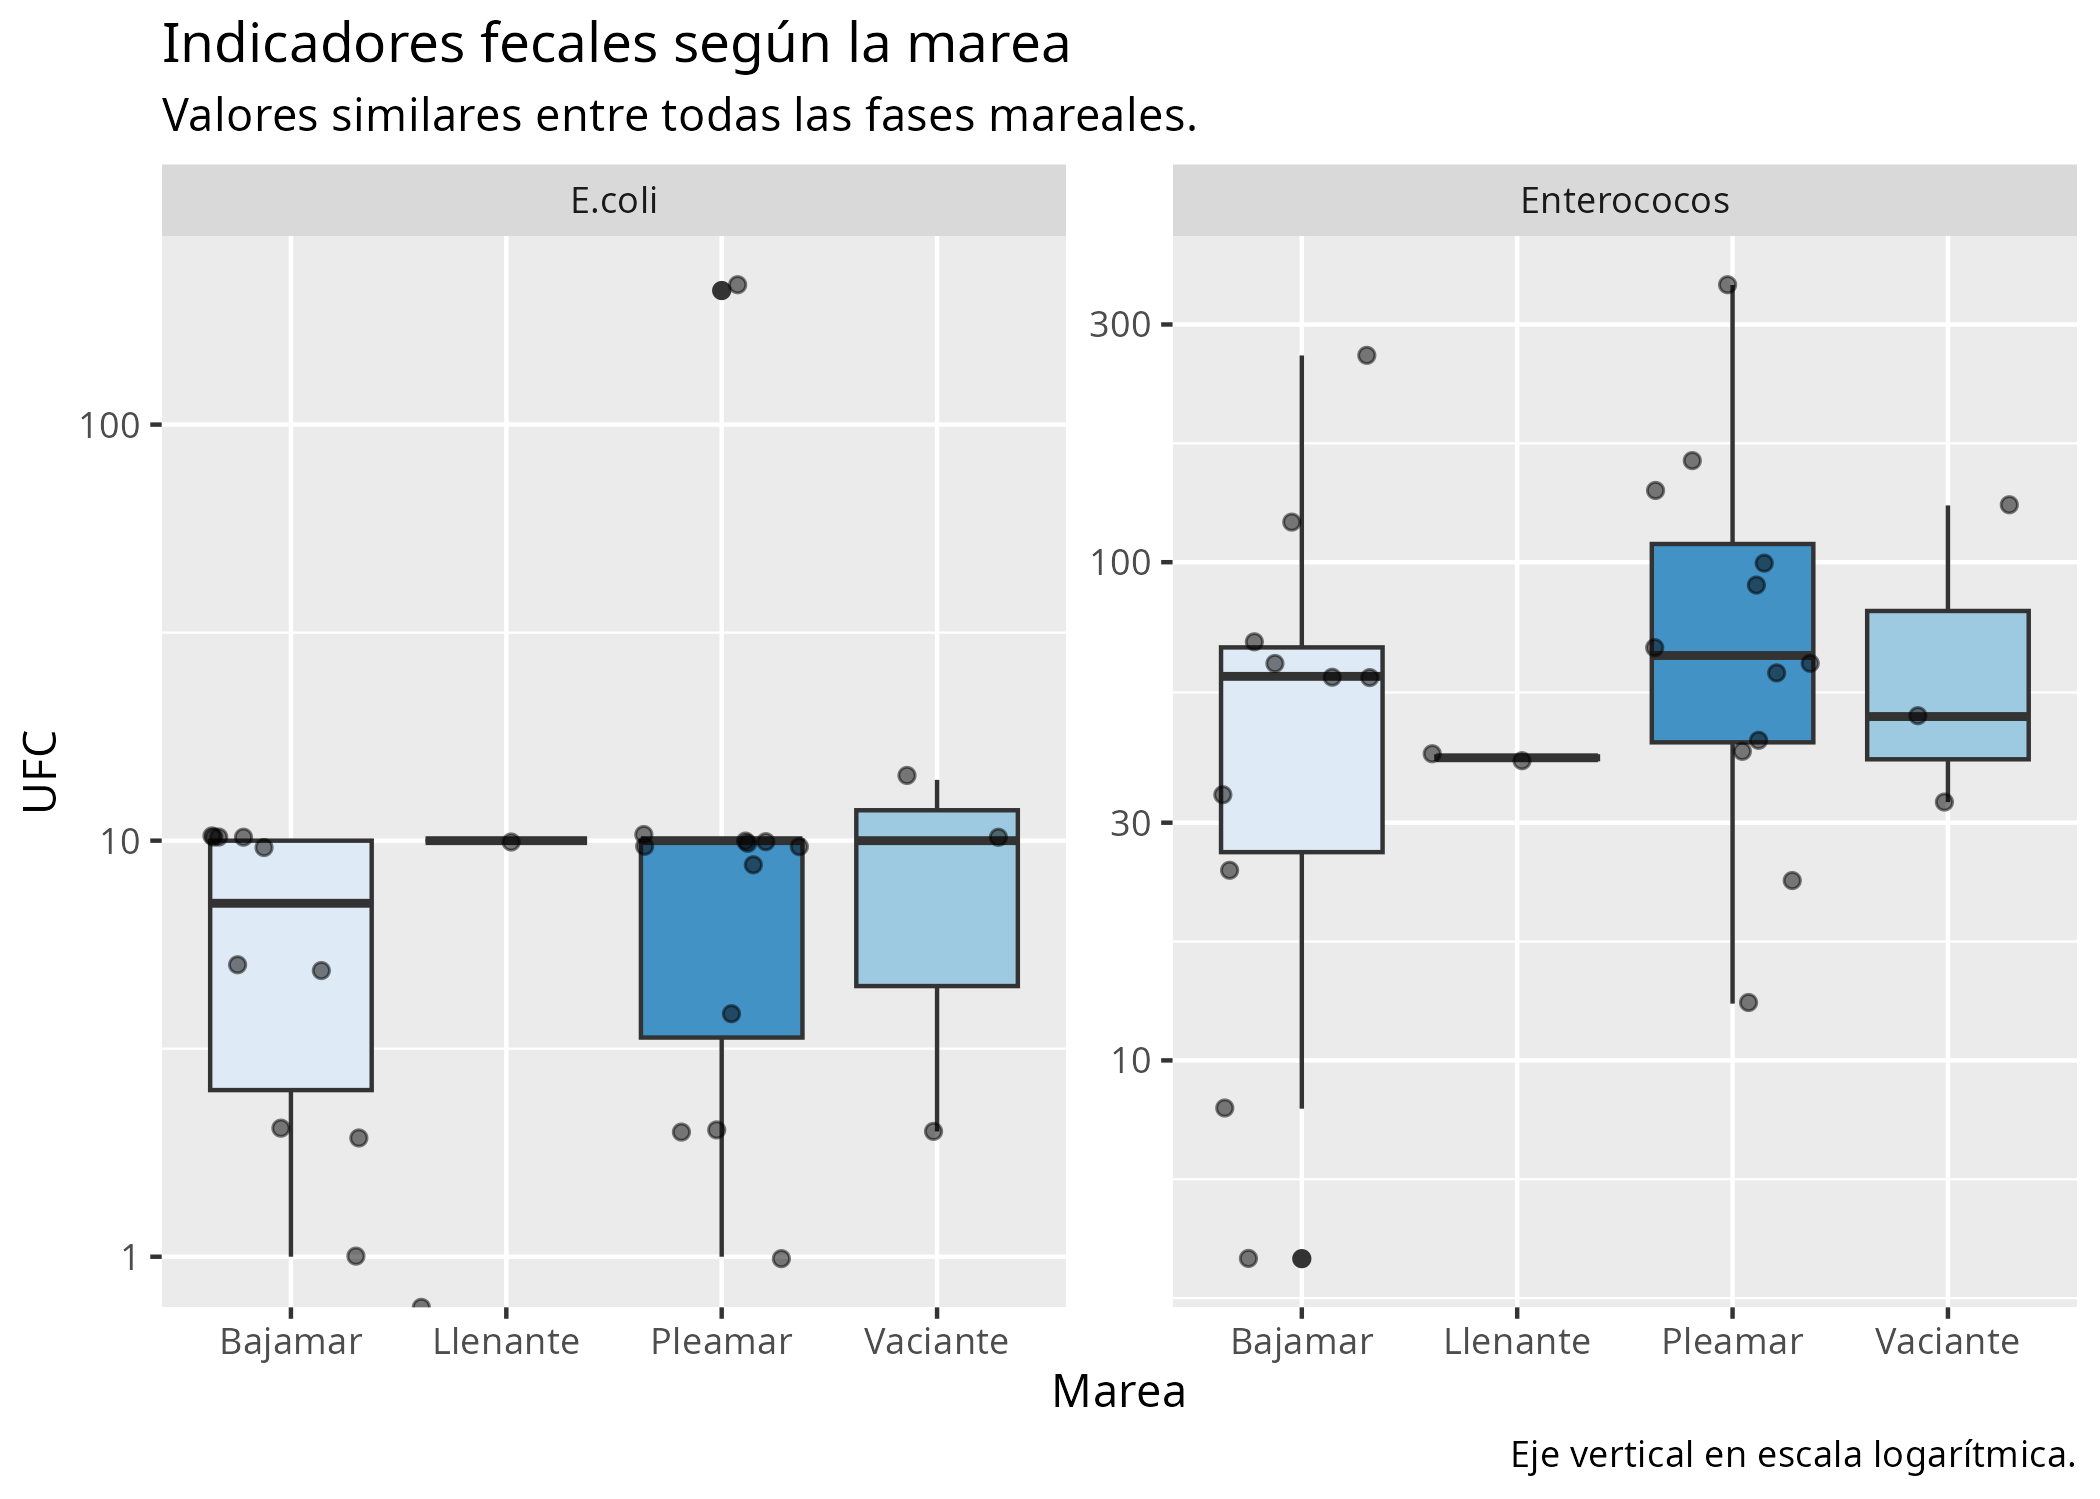
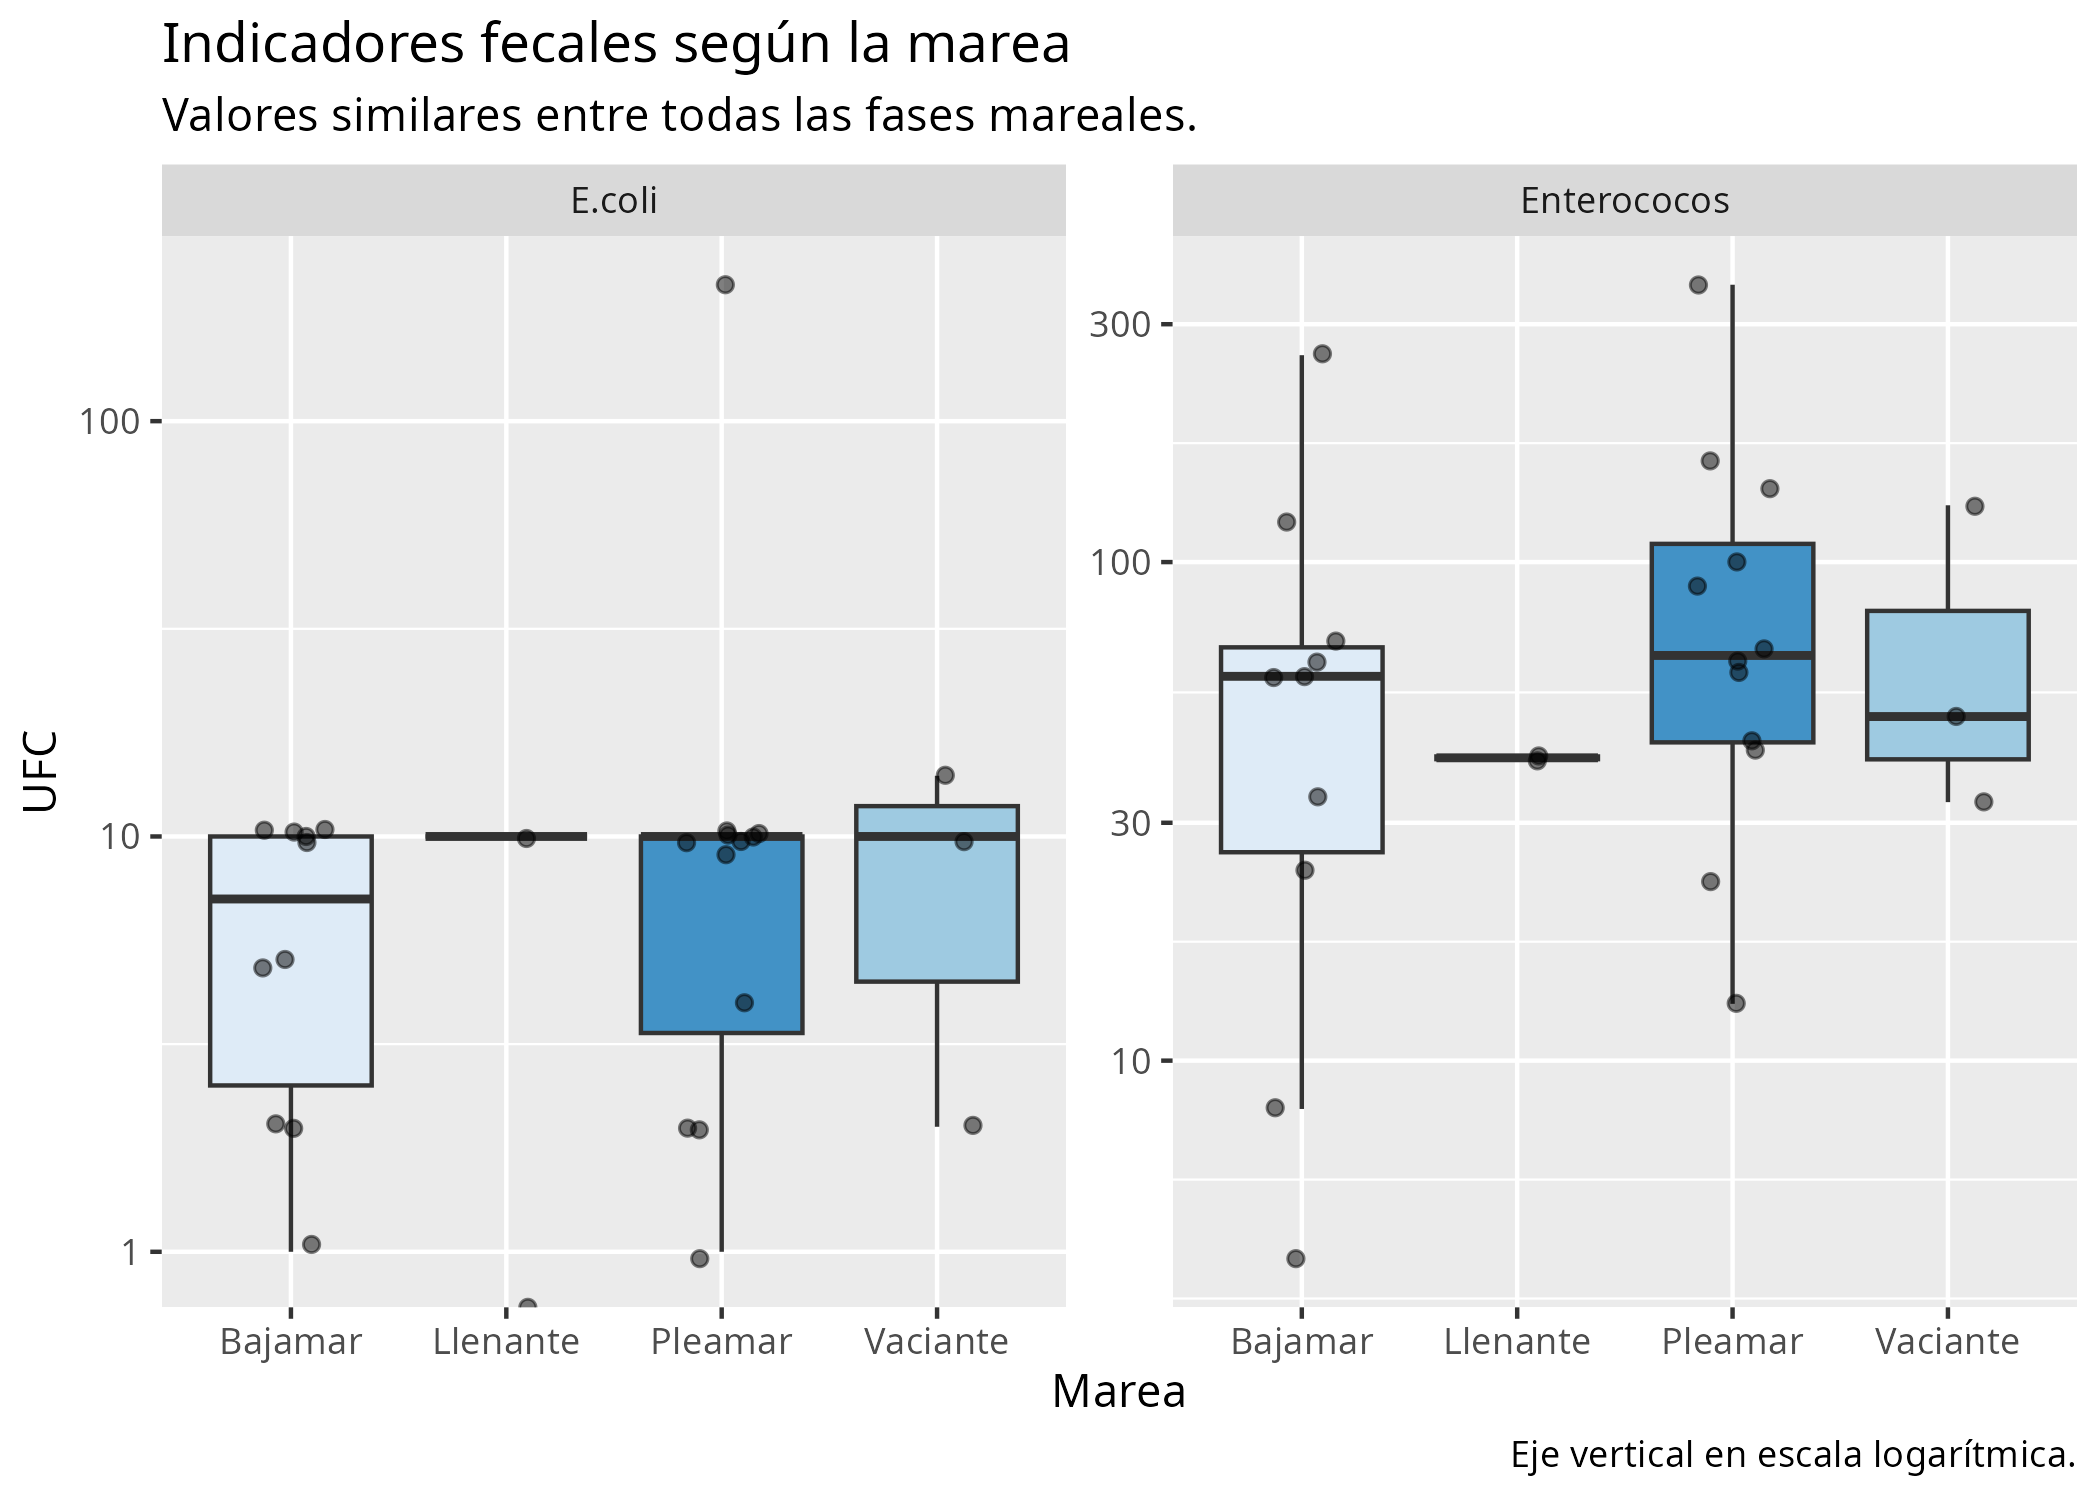
Añadidos resultados según agente muestreador

diff --git a/docs/index.html b/docs/index.html
@@ -152,6 +152,7 @@ pre > code.sourceCode > span > a:first-child::before { text-decoration: underlin
   <li><a href="#indicadores-convencionales-e.-coli-y-entetococos-intestinales" id="toc-indicadores-convencionales-e.-coli-y-entetococos-intestinales" class="nav-link active" data-scroll-target="#indicadores-convencionales-e.-coli-y-entetococos-intestinales">Indicadores convencionales: <em>E. coli</em> y entetococos intestinales</a>
   <ul>
   <li><a href="#vista-general" id="toc-vista-general" class="nav-link" data-scroll-target="#vista-general">Vista general</a></li>
+  <li><a href="#agente-muestreador" id="toc-agente-muestreador" class="nav-link" data-scroll-target="#agente-muestreador">Agente muestreador</a></li>
   <li><a href="#ciclo-de-mareas" id="toc-ciclo-de-mareas" class="nav-link" data-scroll-target="#ciclo-de-mareas">Ciclo de mareas</a></li>
   </ul></li>
   </ul>
@@ -185,6 +186,11 @@ pre > code.sourceCode > span > a:first-child::before { text-decoration: underlin
 <h3 class="anchored" data-anchor-id="vista-general">Vista general</h3>
 <p>Los episodios esporádicos de contaminación por enterococos intestinales se repitieron durante los meses de verano y principios de septiembre 2025.</p>
 <p><img src="plots/UFC-vista-general.png" class="img-fluid"></p>
+</section>
+<section id="agente-muestreador" class="level3">
+<h3 class="anchored" data-anchor-id="agente-muestreador">Agente muestreador</h3>
+<p>Sanidad contabilizó una mayor concentración de enterococos intestinales en las mismas muestras procesadas también por Hidrotecnia.</p>
+<p><img src="plots/UFC-agente.png" class="img-fluid"></p>
 </section>
 <section id="ciclo-de-mareas" class="level3">
 <h3 class="anchored" data-anchor-id="ciclo-de-mareas">Ciclo de mareas</h3>
